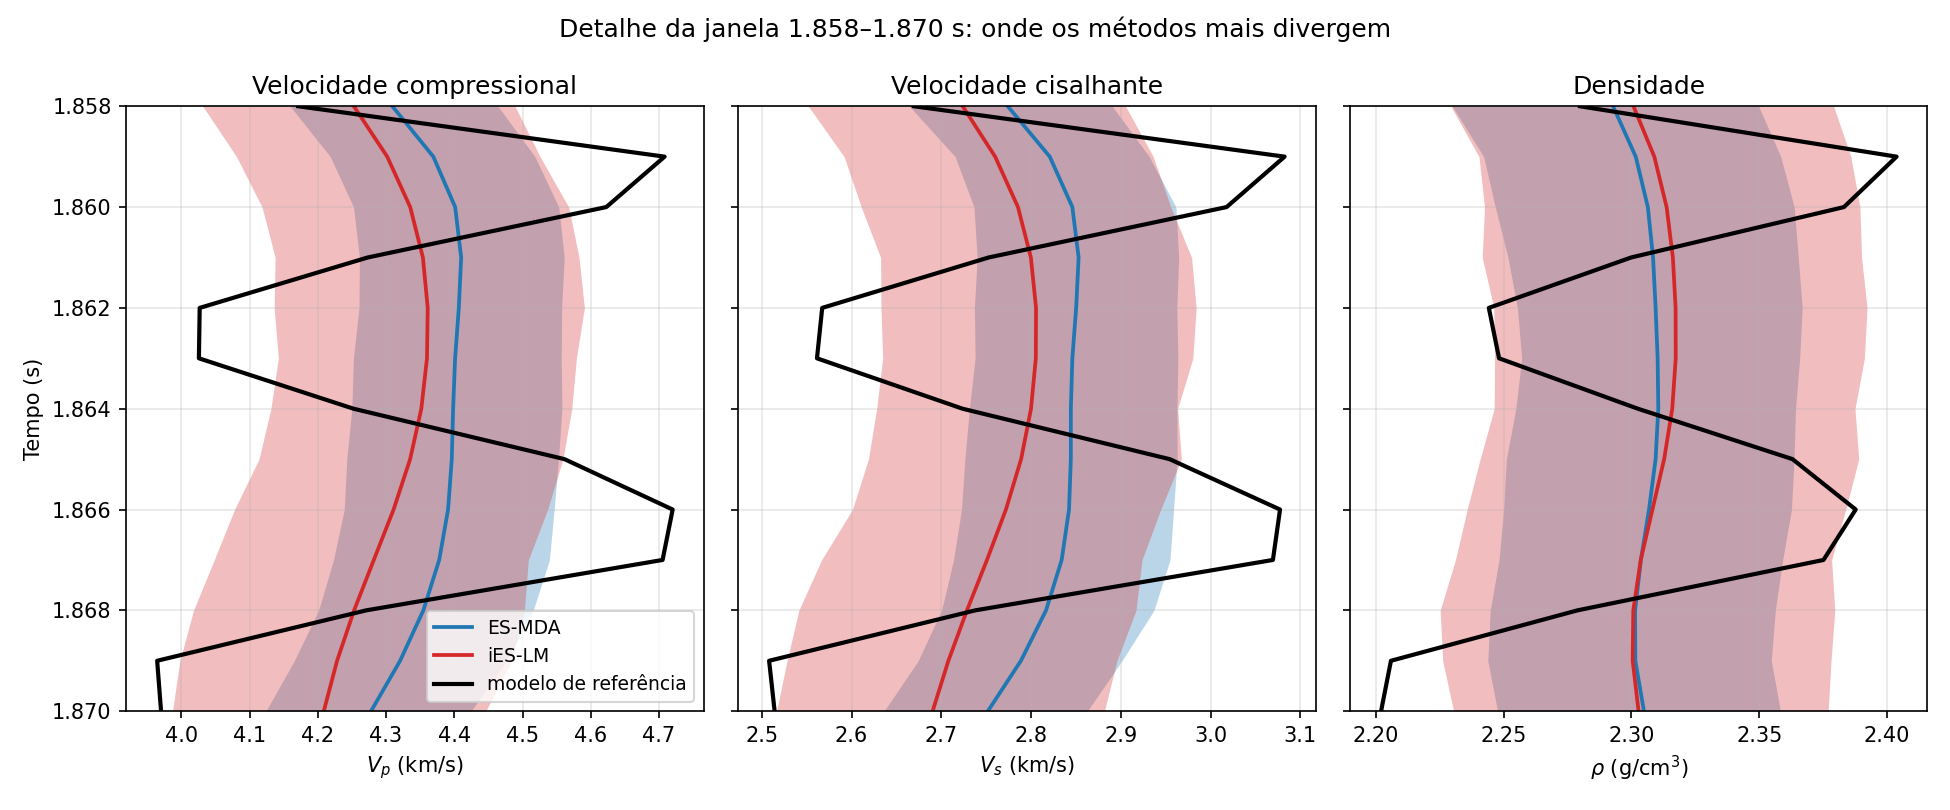
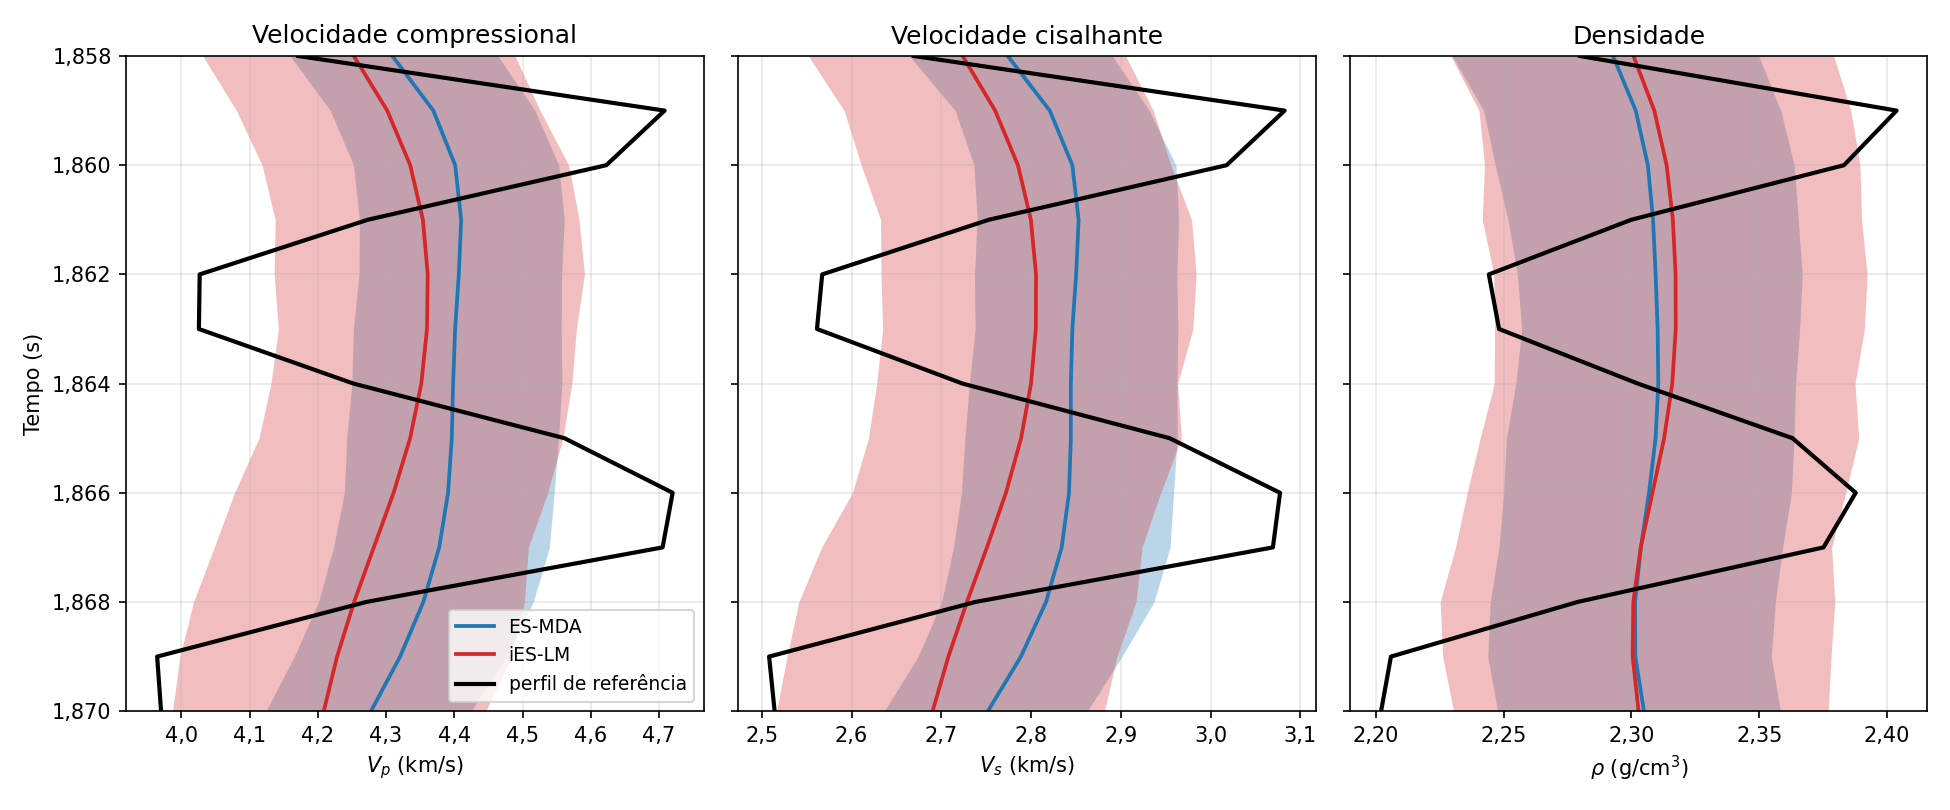
Deixa as figuras do T01 no padrão das demais figuras do TCC
As figuras dos resultados tinham um título geral que repetia a legenda do
texto, ponto decimal nos eixos e o termo "modelo verdadeiro", enquanto as
demais figuras do TCC usam vírgula decimal e "perfil de referência". O
_figuras() deixa de pôr título geral, passa a escrever as marcas dos eixos
com vírgula e usa "referência" nas legendas e rótulos. As quatro figuras
do T01 foram regeneradas com os mesmos dados.

diff --git a/experimento_elastico.py b/experimento_elastico.py
@@ -23,7 +23,7 @@ from dataclasses import replace
 import matplotlib
 matplotlib.use('Agg')
 import matplotlib.pyplot as plt
-from matplotlib.ticker import MaxNLocator
+from matplotlib.ticker import MaxNLocator, ScalarFormatter
 import numpy as np
 
 import config
@@ -371,7 +371,7 @@ def _painel(ax, Time, verd, conjuntos, titulo, xlabel, zoom=None):
         p10, p90 = mt.envelope(conj)
         ax.fill_betweenx(Time.ravel(), p10, p90, color=cor, alpha=0.30, lw=0)
         ax.plot(conj.mean(axis=1), Time, color=cor, lw=1.6, label=rotulo)
-    ax.plot(verd, Time, 'k', lw=1.8, label='modelo de referência')
+    ax.plot(verd, Time, 'k', lw=1.8, label='perfil de referência')
     ax.set_ylim(Time.max(), Time.min())
     ax.set_xlabel(xlabel)
     ax.set_title(titulo)
@@ -404,7 +404,7 @@ def _painel_detalhe(ax, Time, verd, conjuntos, titulo, xlabel, zoom):
         p10, p90 = mt.envelope(conj)
         ax.fill_betweenx(t[dentro], p10[dentro], p90[dentro], color=cor, alpha=0.30, lw=0)
         ax.plot(conj.mean(axis=1)[dentro], t[dentro], color=cor, lw=1.8, label=rotulo)
-    ax.plot(v, t[dentro], 'k', lw=2.0, label='modelo de referência')
+    ax.plot(v, t[dentro], 'k', lw=2.0, label='perfil de referência')
     ax.set_ylim(zoom[1], zoom[0])
     ax.set_xlabel(xlabel)
     ax.set_title(titulo)
@@ -414,6 +414,20 @@ def _painel_detalhe(ax, Time, verd, conjuntos, titulo, xlabel, zoom):
     hi = max([v.max()] + [mt.envelope(c)[1][dentro].max() for c, _, _ in conjuntos])
     folga = 0.06 * (hi - lo)
     ax.set_xlim(lo - folga, hi + folga)
+
+
+class _FormatoVirgula(ScalarFormatter):
+    """Marcas dos eixos com virgula decimal, como no texto do TCC."""
+
+    def __call__(self, x, pos=None):
+        return super().__call__(x, pos).replace('.', ',')
+
+
+def _virgula_nos_eixos(fig):
+    """Troca o ponto decimal pela virgula nas marcas de todos os eixos."""
+    for ax in fig.axes:
+        ax.xaxis.set_major_formatter(_FormatoVirgula())
+        ax.yaxis.set_major_formatter(_FormatoVirgula())
 
 
 def _virgula(x, casas=3):
@@ -483,6 +497,7 @@ def _figuras(c, Z_mda, hist_mda, res_lm, Z_lm, res_sem=None, extras=(),
     os.makedirs(pasta, exist_ok=True)
 
     def _salva(fig, nome):
+        _virgula_nos_eixos(fig)
         if rotulo:
             fig.text(0.005, 0.005, rotulo, ha='left', va='bottom', fontsize=8, color='0.3')
         salva_figura(fig, prefixo + nome, pasta)
@@ -509,7 +524,6 @@ def _figuras(c, Z_mda, hist_mda, res_lm, Z_lm, res_sem=None, extras=(),
     eixos[1, 0].set_ylabel('Tempo (s)')
     eixos[0, 0].legend(loc='lower right', fontsize=8)
     eixos[1, 0].legend(loc='lower right', fontsize=8)
-    fig.suptitle('Propriedades elásticas estimadas (envelopes P10–P90)', y=0.98)
     fig.tight_layout()
     _salva(fig, 'elastico_perfis')
 
@@ -521,8 +535,6 @@ def _figuras(c, Z_mda, hist_mda, res_lm, Z_lm, res_sem=None, extras=(),
                         titulos[i], rotulos[i], janela)
     eixos[0].set_ylabel('Tempo (s)')
     eixos[0].legend(loc='best', fontsize=9)
-    fig.suptitle('Detalhe da janela %.3f–%.3f s: onde os métodos mais divergem'
-                 % janela, y=0.98)
     fig.tight_layout()
     _salva(fig, 'elastico_detalhe')
 
@@ -544,7 +556,6 @@ def _figuras(c, Z_mda, hist_mda, res_lm, Z_lm, res_sem=None, extras=(),
         ax.grid(alpha=0.3)
     eixos[0].set_ylabel('Tempo (s)')
     eixos[0].legend(loc='lower right', fontsize=8)
-    fig.suptitle('Erro de estimativa (média do conjunto − referência)', y=0.98)
     fig.tight_layout()
     _salva(fig, 'elastico_erro')
 
@@ -644,13 +655,11 @@ def _figuras(c, Z_mda, hist_mda, res_lm, Z_lm, res_sem=None, extras=(),
             if r == 0:
                 ax.set_title('Resíduo sem ruído — %s' % fe.nome_angulo(cfg.angulos[i], i, n_ang))
             if r == len(execucoes) - 1:
-                ax.set_xlabel('Sísmica verdadeira − prevista')
+                ax.set_xlabel('Sísmica de referência − prevista')
         eixos[r, 0].set_ylabel('Semente %d\nTempo (s)' % c_r['cfg'].semente)
     eixos[0, 0].set_ylim(t_sis.max(), t_sis.min())
     fig.legend(*eixos[0, 0].get_legend_handles_labels(), loc='lower center', ncol=3,
                fontsize=9, frameon=False)
-    fig.suptitle('Erro sistemático de cada método: sísmica do modelo verdadeiro '
-                 '(sem o ruído somado) menos a sísmica prevista', y=0.995)
     fig.tight_layout(rect=(0, 0.03, 1, 1))
     _salva(fig, 'elastico_residuos')
 
